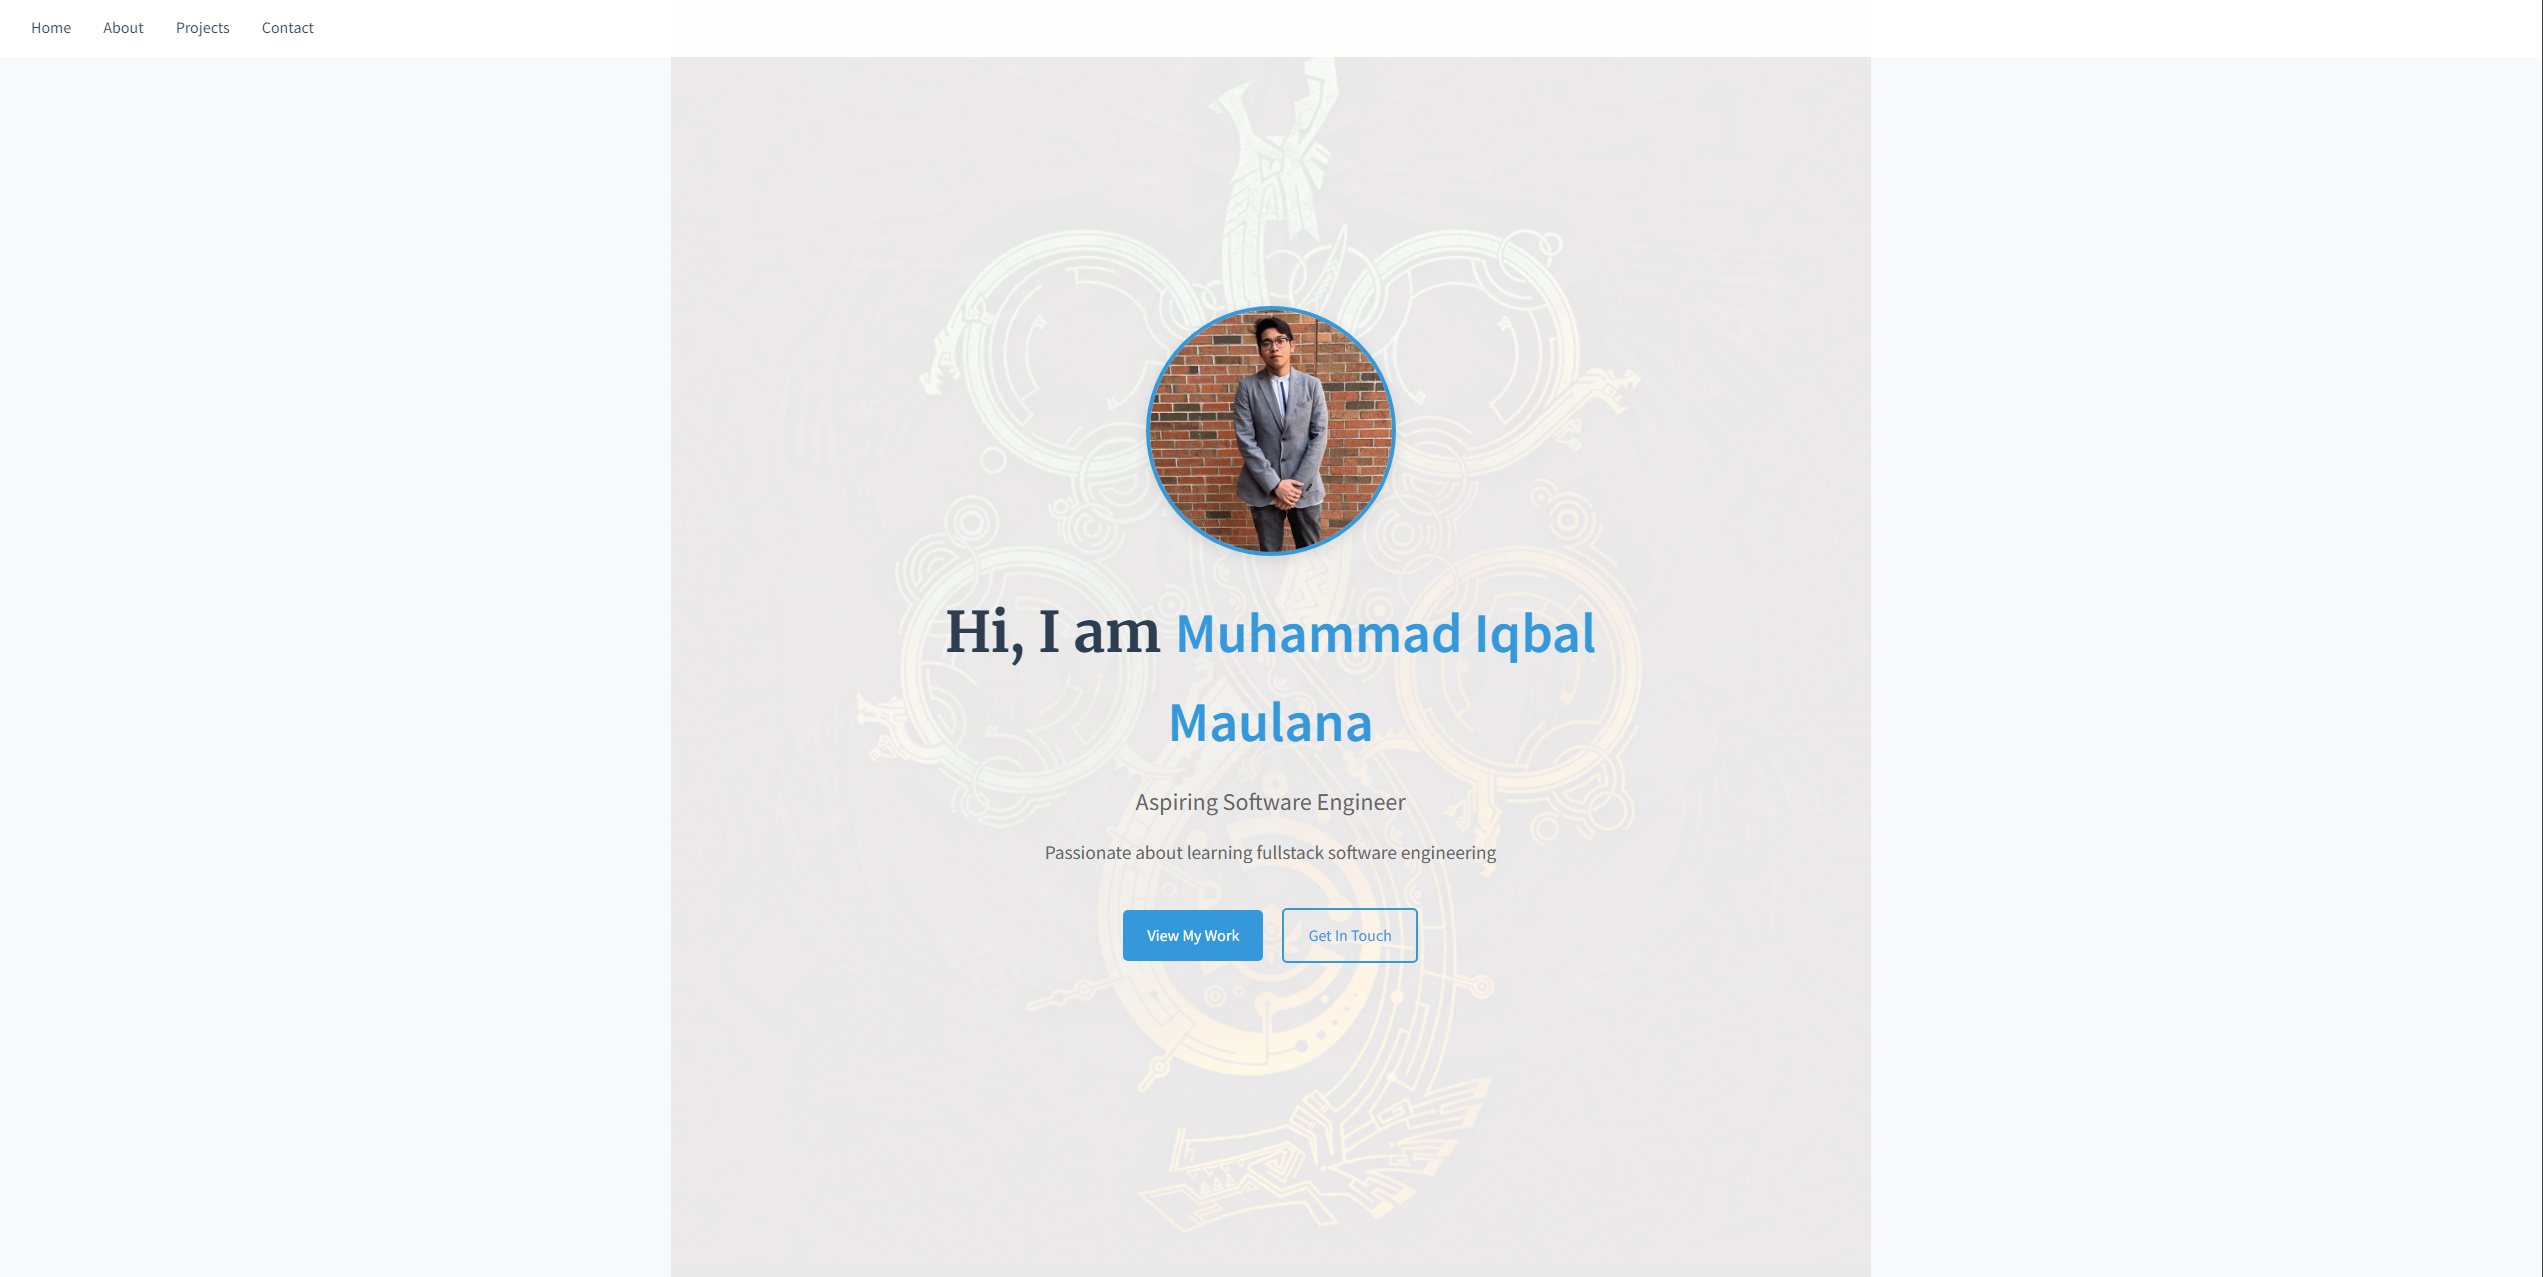
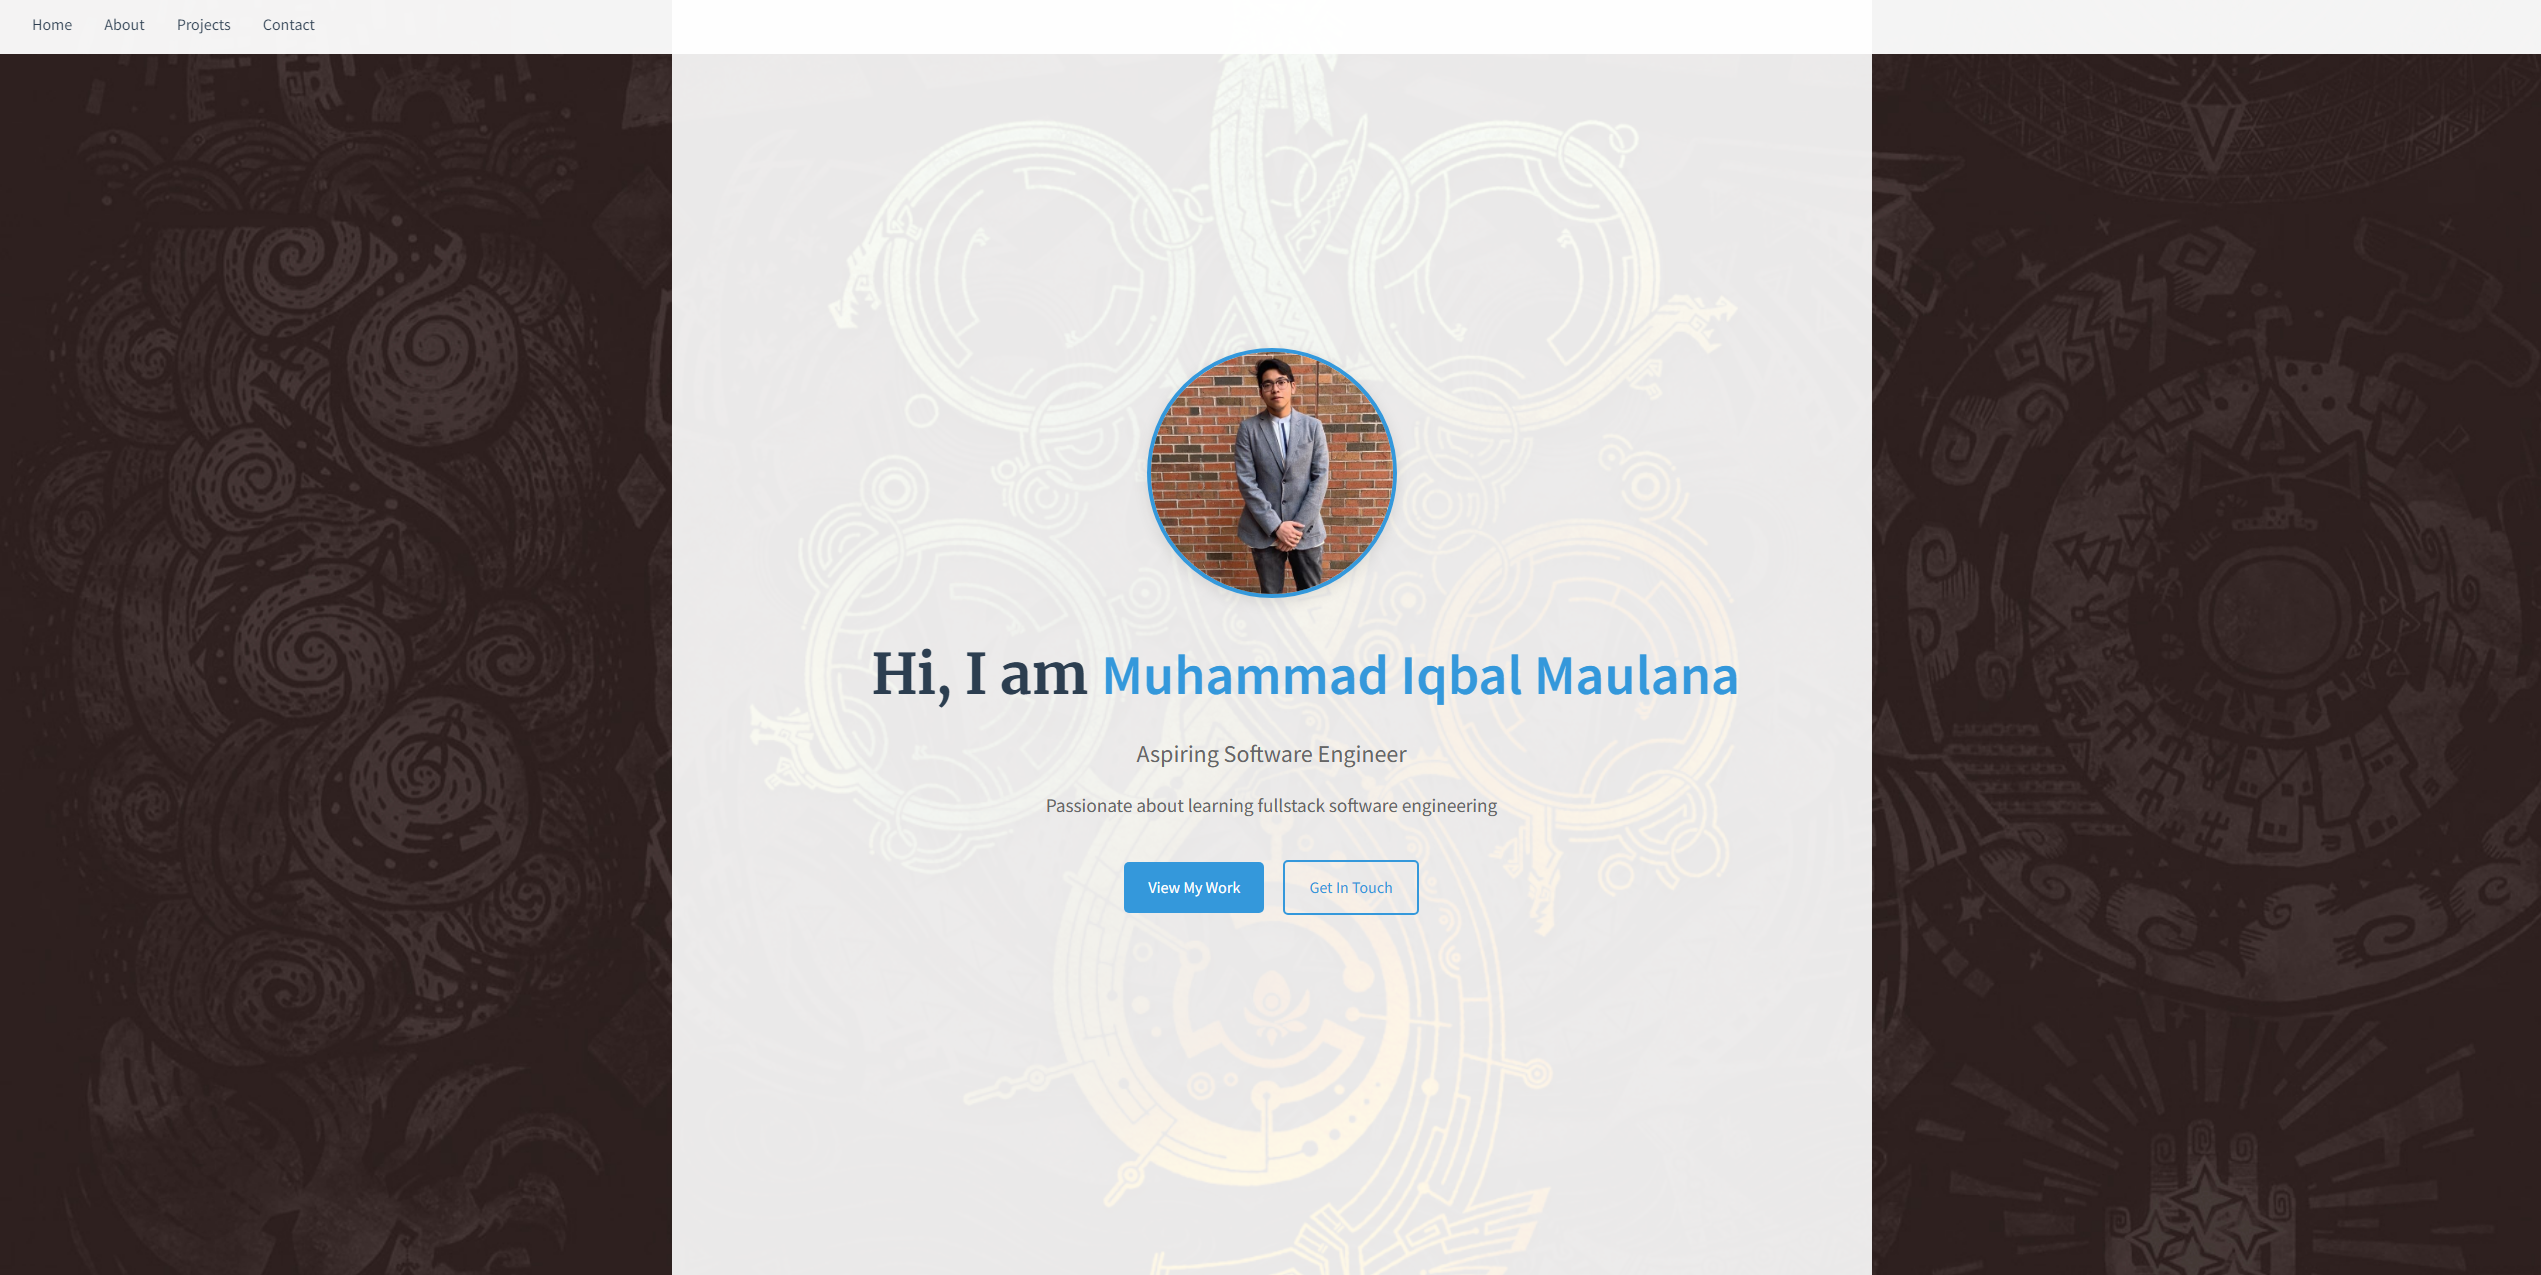
updated

diff --git a/style.css b/style.css
@@ -15,7 +15,10 @@ body {
     font-family: 'Source Sans Pro', sans-serif;
     line-height: 1.6;
     color: #333;
-    background-color: #f8f9fa;
+    background: url('assets/background.png');
+    background-size: cover;
+    background-position: center;
+    background-attachment: fixed;
 }
 
 .container {
@@ -104,10 +107,9 @@ h2 {
     justify-content: center;
     text-align: center;
     padding: 0 1rem;
-    background-color: #f8f9fa;
-    background: linear-gradient(rgba(255,255,255,0.9), rgba(255,255,255,0.9)), url('assets/background.png');
-    background-size: cover;
-    background-position: center;
+    position: relative;
+    overflow: hidden;
+    background: rgba(255, 255, 255, 0.9)
 }
 
 .home-content {
@@ -118,6 +120,7 @@ h2 {
     font-size: 3.5rem;
     margin-bottom: 1rem;
     color: #2c3e50;
+    white-space: nowrap;
 }
 
 .profile-container {
@@ -193,7 +196,7 @@ h2 {
 /* About Section */
 .about-section {
     padding: 5rem 0;
-    background-color: white;
+    background: rgba(255, 255, 255, 0.9)
 }
 
 .section-title {
@@ -243,8 +246,8 @@ h2 {
 /* Education Section */
 
 .education-section {
-    background-color: #f8f9fa;
     padding: 5rem 0;
+    background: rgba(255, 255, 255, 0.9)
 }
 
 .education-timeline {
@@ -358,7 +361,7 @@ h2 {
 /* Projects Section */
 .projects-section {
     padding: 5rem;
-    background-color: #f8f9fa;
+    background: rgba(255, 255, 255, 0.9)
 }
 
 .projects-grid {
@@ -439,7 +442,7 @@ h2 {
 /* Contact Section */
 .contact-section {
     padding: 5rem 0;
-    background-color: white;
+    background: rgba(255, 255, 255, 0.9)
 }
 
 .contact-content {
@@ -578,6 +581,7 @@ h2 {
     /* Home Section */
     .home-content h1 {
         font-size: 2.5rem;
+        white-space: normal;
     }
 
     /* Profile Picture */
@@ -641,6 +645,9 @@ h2 {
 @media (max-width: 480px) {
     /* Profile Picture */
 
+    .home-content h1 {
+        font-size: 2rem;
+    }
     .home-profile-pic {
         width: 150px;
         height: 150px;

diff --git a/README.md b/README.md
@@ -3,6 +3,9 @@
 ## Overview 
 A responsive personal portofolio website showcasing my skills, education, projects, and contact information. 
  
+ Website Preview:
+![Website Preview](assets/website-preview.png)
+
 # Features 
 - ✨ Responsive Navigation
 - 🙋🏽♂Home section with profile picture
